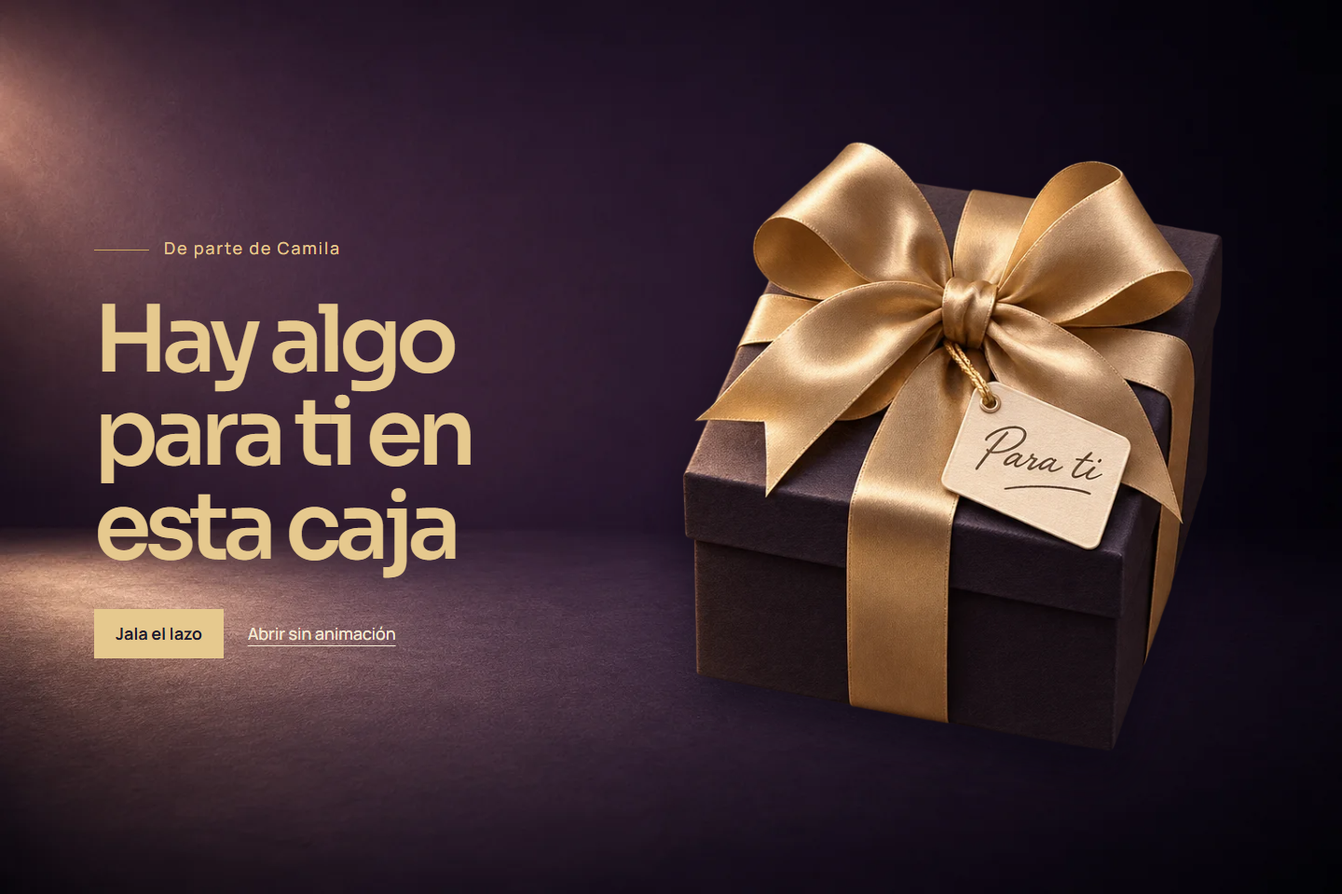
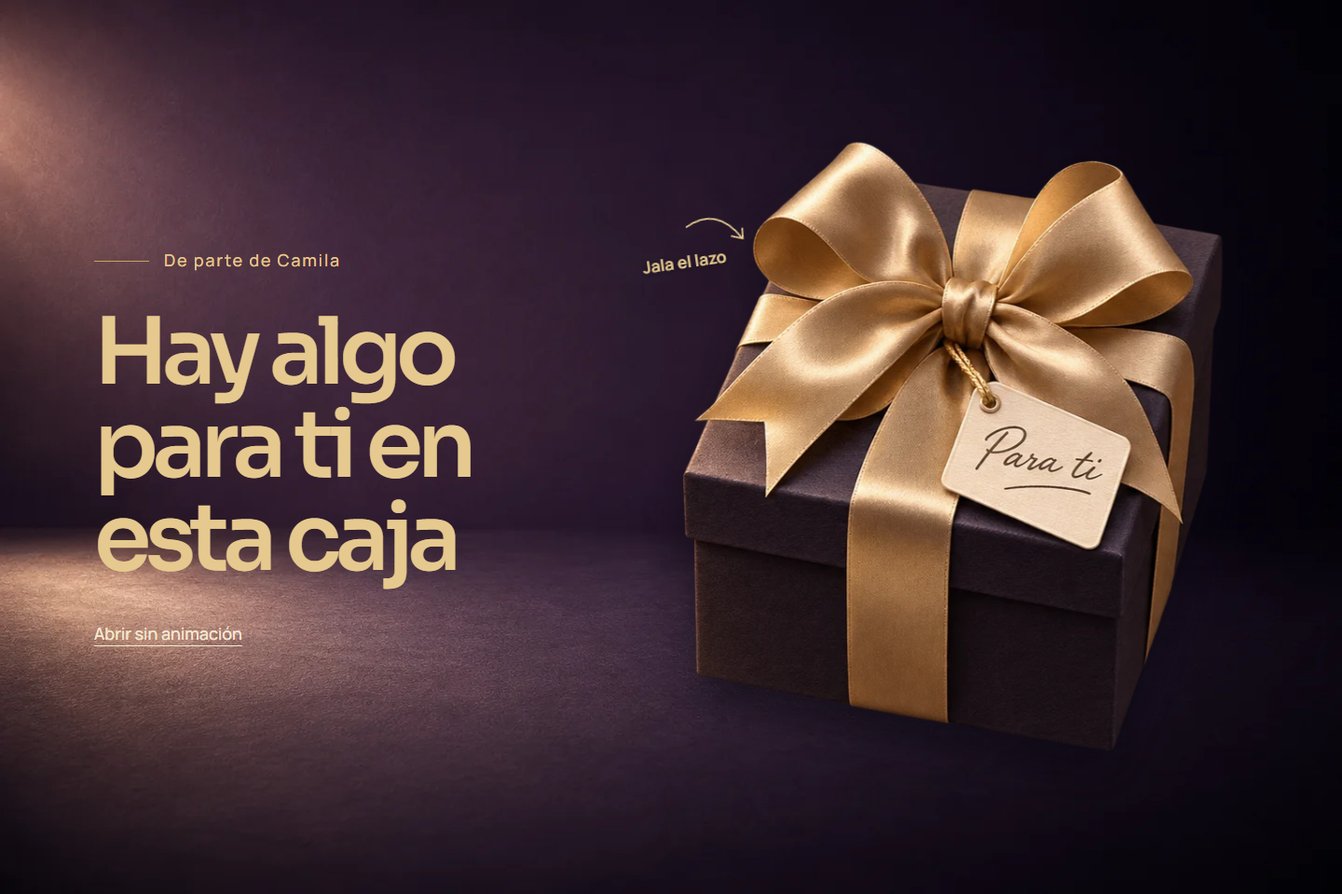
Recompone el interior sobre la mesa y convierte el moño en el control de portada

diff --git a/documentacion/caja-de-regalo/boceto/interior.html b/documentacion/caja-de-regalo/boceto/interior.html
@@ -1,12 +1,25 @@
 <!doctype html>
-<html lang="es"><head><meta charset="utf-8"><meta name="viewport" content="width=device-width, initial-scale=1"><title>Dentro de la caja · Camila 30</title><link rel="stylesheet" href="boceto.css"></head>
-<body><nav aria-label="Dentro de la caja"><a href="#cuando">Fecha</a><a href="#camila">Fotos</a><a href="#saber">Detalles</a><a href="#confirmacion">Mi lugar</a></nav>
-<main class="inside"><section id="cuando" class="date spread"><div><h1>Marca el 24 con dorado</h1><p>Faltan … para el brindis</p></div><div class="stationery"><div class="tag"><picture class=""><source media="(max-width: 680px)" srcset="../../../public/artwork/birthday-caja/etiqueta-350.webp"><img src="../../../public/artwork/birthday-caja/etiqueta-620.webp" alt=""></picture><p>Sábado 24 de julio · 19:00 · Terraza Aurora</p></div><div class="links"><a href="../../../public/invitaciones/camila-30/fecha.ics" download>Guárdalo en tu calendario</a><span role="link" aria-disabled="true">La ubicación llega pronto</span></div></div></section>
-<section id="camila"><header><h2>Treinta años no caben en una caja</h2><p>Pero lo intentamos</p></header><div class="album"><figure><picture class="frame"><source media="(max-width: 680px)" srcset="../../../public/artwork/birthday-caja/marco-260.webp"><img src="../../../public/artwork/birthday-caja/marco-514.webp" alt=""></picture><img class="photo" src="../../../public/artwork/birthday-camila-fotos/5-600.webp" srcset="../../../public/artwork/birthday-camila-fotos/5-320.webp 320w, ../../../public/artwork/birthday-camila-fotos/5-600.webp 600w" sizes="(max-width:680px) 235px, 290px" alt=""><figcaption>Los 5 · Con harina hasta en la nariz</figcaption><picture class="tape"><source media="(max-width: 680px)" srcset="../../../public/artwork/birthday-caja/cinta-100.webp"><img src="../../../public/artwork/birthday-caja/cinta-220.webp" alt=""></picture></figure>
+<html lang="es"><head><meta charset="utf-8"><meta name="viewport" content="width=device-width, initial-scale=1"><title>Dentro de la caja · Camila 30</title><link rel="stylesheet" href="boceto.css"><link rel="stylesheet" href="mesa.css"></head>
+
+<body class="table"><nav aria-label="Dentro de la caja"><a href="#cuando">Fecha</a><a href="#camila">Fotos</a><a href="#saber">Detalles</a><a href="#confirmacion">Mi lugar</a></nav>
+<main class="objects">
+<div class="thread" aria-hidden="true"><picture class=""><source media="(max-width:680px)" srcset="../../../public/artwork/birthday-caja/liston-390.webp"><img src="../../../public/artwork/birthday-caja/liston-900.webp" alt=""></picture><picture class=""><source media="(max-width:680px)" srcset="../../../public/artwork/birthday-caja/liston-390.webp"><img src="../../../public/artwork/birthday-caja/liston-900.webp" alt=""></picture><picture class=""><source media="(max-width:680px)" srcset="../../../public/artwork/birthday-caja/liston-390.webp"><img src="../../../public/artwork/birthday-caja/liston-900.webp" alt=""></picture></div>
+<section id="cuando">
+  <picture class="box"><source media="(max-width:680px)" srcset="../../../public/artwork/birthday-caja/abierta-390.webp"><img src="../../../public/artwork/birthday-caja/abierta-830.webp" alt="Caja abierta con el listón de satén extendido"></picture>
+  <h1>Marca el 24 con dorado</h1>
+  <div class="tag"><picture class=""><source media="(max-width:680px)" srcset="../../../public/artwork/birthday-caja/etiqueta-350.webp"><img src="../../../public/artwork/birthday-caja/etiqueta-620.webp" alt=""></picture><p>Sábado 24 de julio<br>19:00 · Terraza Aurora</p></div>
+  <p class="count">Faltan <strong>263</strong> días para el brindis</p>
+  <div class="links"><a href="../../../public/invitaciones/camila-30/fecha.ics" download>Guárdalo en tu calendario</a><span role="link" aria-disabled="true">La ubicación llega pronto</span></div>
+</section>
+<section id="camila"><header><h2>Treinta años no caben en una caja</h2><p>Pero lo intentamos</p></header>
+<div class="album"><figure><picture class="frame"><source media="(max-width: 680px)" srcset="../../../public/artwork/birthday-caja/marco-260.webp"><img src="../../../public/artwork/birthday-caja/marco-514.webp" alt=""></picture><img class="photo" src="../../../public/artwork/birthday-camila-fotos/5-600.webp" srcset="../../../public/artwork/birthday-camila-fotos/5-320.webp 320w, ../../../public/artwork/birthday-camila-fotos/5-600.webp 600w" sizes="(max-width:680px) 235px, 290px" alt=""><figcaption>Los 5 · Con harina hasta en la nariz</figcaption><picture class="tape"><source media="(max-width: 680px)" srcset="../../../public/artwork/birthday-caja/cinta-100.webp"><img src="../../../public/artwork/birthday-caja/cinta-220.webp" alt=""></picture></figure>
 <figure><picture class="frame"><source media="(max-width: 680px)" srcset="../../../public/artwork/birthday-caja/marco-260.webp"><img src="../../../public/artwork/birthday-caja/marco-514.webp" alt=""></picture><img class="photo" src="../../../public/artwork/birthday-camila-fotos/15-600.webp" srcset="../../../public/artwork/birthday-camila-fotos/15-320.webp 320w, ../../../public/artwork/birthday-camila-fotos/15-600.webp 600w" sizes="(max-width:680px) 235px, 290px" alt=""><figcaption>Los 15 · Me cambié los tacones por tenis</figcaption><picture class="tape"><source media="(max-width: 680px)" srcset="../../../public/artwork/birthday-caja/cinta-100.webp"><img src="../../../public/artwork/birthday-caja/cinta-220.webp" alt=""></picture></figure>
 <figure><picture class="frame"><source media="(max-width: 680px)" srcset="../../../public/artwork/birthday-caja/marco-260.webp"><img src="../../../public/artwork/birthday-caja/marco-514.webp" alt=""></picture><img class="photo" src="../../../public/artwork/birthday-camila-fotos/18-600.webp" srcset="../../../public/artwork/birthday-camila-fotos/18-320.webp 320w, ../../../public/artwork/birthday-camila-fotos/18-600.webp 600w" sizes="(max-width:680px) 235px, 290px" alt=""><figcaption>Los 18 · El diploma casi sale volando</figcaption><picture class="tape"><source media="(max-width: 680px)" srcset="../../../public/artwork/birthday-caja/cinta-100.webp"><img src="../../../public/artwork/birthday-caja/cinta-220.webp" alt=""></picture></figure>
 <figure><picture class="frame"><source media="(max-width: 680px)" srcset="../../../public/artwork/birthday-caja/marco-260.webp"><img src="../../../public/artwork/birthday-caja/marco-514.webp" alt=""></picture><img class="photo" src="../../../public/artwork/birthday-camila-fotos/25-600.webp" srcset="../../../public/artwork/birthday-camila-fotos/25-320.webp 320w, ../../../public/artwork/birthday-camila-fotos/25-600.webp 600w" sizes="(max-width:680px) 235px, 290px" alt=""><figcaption>Los 25 · Mi primera mudanza, planta incluida</figcaption><picture class="tape"><source media="(max-width: 680px)" srcset="../../../public/artwork/birthday-caja/cinta-100.webp"><img src="../../../public/artwork/birthday-caja/cinta-220.webp" alt=""></picture></figure>
 <figure><picture class="frame"><source media="(max-width: 680px)" srcset="../../../public/artwork/birthday-caja/marco-260.webp"><img src="../../../public/artwork/birthday-caja/marco-514.webp" alt=""></picture><img class="photo" src="../../../public/artwork/birthday-camila-fotos/29-600.webp" srcset="../../../public/artwork/birthday-camila-fotos/29-320.webp 320w, ../../../public/artwork/birthday-camila-fotos/29-600.webp 600w" sizes="(max-width:680px) 235px, 290px" alt=""><figcaption>Los 29 · Dije que era una caminata corta</figcaption><picture class="tape"><source media="(max-width: 680px)" srcset="../../../public/artwork/birthday-caja/cinta-100.webp"><img src="../../../public/artwork/birthday-caja/cinta-220.webp" alt=""></picture></figure>
-<figure><picture class="frame"><source media="(max-width: 680px)" srcset="../../../public/artwork/birthday-caja/marco-260.webp"><img src="../../../public/artwork/birthday-caja/marco-514.webp" alt=""></picture><img class="photo" src="../../../public/artwork/birthday-camila-fotos/30-600.webp" srcset="../../../public/artwork/birthday-camila-fotos/30-320.webp 320w, ../../../public/artwork/birthday-camila-fotos/30-600.webp 600w" sizes="(max-width:680px) 235px, 290px" alt=""><figcaption>Hoy · Mi pista sigue siendo la cocina</figcaption><picture class="tape"><source media="(max-width: 680px)" srcset="../../../public/artwork/birthday-caja/cinta-100.webp"><img src="../../../public/artwork/birthday-caja/cinta-220.webp" alt=""></picture></figure></div></section>
-<section id="saber" aria-label="Detalles"><picture class="letter"><source media="(max-width: 680px)" srcset="../../../public/artwork/birthday-caja/nota-390.webp"><img src="../../../public/artwork/birthday-caja/nota-820.webp" alt="Ven con algo que brille. ¿Regalo? Un baile conmigo. Si insistes, habrá una cajita para sobres junto al pastel. Es noche de adultos: los peques, con los abuelos. Hay valet. Que maneje quien no brinde. — Cami"></picture></section>
-<section id="confirmacion" class="spread"><div><h2>Tu lugar en la fiesta</h2><p>¿Te veo el 24?</p></div><div><div class="ticket"><picture class=""><source media="(max-width: 680px)" srcset="../../../public/artwork/birthday-caja/pase-350.webp"><img src="../../../public/artwork/birthday-caja/pase-610.webp" alt=""></picture><p>Admite a: tu nombre</p></div><div class="answers"><details name="respuesta"><summary>Ahí estaré</summary><p>Listo. Te guardo un lugar en la pista y una copa de champaña</p></details><details name="respuesta"><summary>Esta vez no puedo</summary><p>Te voy a extrañar. Me debes un brindis</p></details></div><small>Es una muestra: no se ha enviado ni guardado ninguna respuesta</small></div></section></main></body></html>
+<figure><picture class="frame"><source media="(max-width: 680px)" srcset="../../../public/artwork/birthday-caja/marco-260.webp"><img src="../../../public/artwork/birthday-caja/marco-514.webp" alt=""></picture><img class="photo" src="../../../public/artwork/birthday-camila-fotos/30-600.webp" srcset="../../../public/artwork/birthday-camila-fotos/30-320.webp 320w, ../../../public/artwork/birthday-camila-fotos/30-600.webp 600w" sizes="(max-width:680px) 235px, 290px" alt=""><figcaption>Hoy · Mi pista sigue siendo la cocina</figcaption><picture class="tape"><source media="(max-width: 680px)" srcset="../../../public/artwork/birthday-caja/cinta-100.webp"><img src="../../../public/artwork/birthday-caja/cinta-220.webp" alt=""></picture></figure><button class="next" type="button" aria-label="Ver la siguiente polaroid"></button></div>
+</section>
+<section id="saber" aria-label="Detalles"><picture class="letter"><source media="(max-width: 680px)" srcset="../../../public/artwork/birthday-caja/nota-390.webp"><img src="../../../public/artwork/birthday-caja/nota-820.webp" alt="Ven con algo que brille. ¿Regalo? Un baile conmigo. Si insistes, habrá una cajita para sobres junto al pastel. Es noche de adultos: los peques, con los abuelos. Hay valet. Que maneje quien no brinde. — Cami"></picture><i class="paperclip" aria-hidden="true"></i></section>
+<section id="confirmacion"><h2>Tu lugar en la fiesta</h2><div class="admission"><picture class=""><source media="(max-width:680px)" srcset="../../../public/artwork/birthday-caja/boleto-480.webp"><img src="../../../public/artwork/birthday-caja/boleto-1000.webp" alt=""></picture><div class="ticket-type"><b>Camila 30</b><span>Sábado 24 de julio · 19:00 · Terraza Aurora</span><strong>Admite a: tu nombre</strong></div><b class="stub">30</b></div><p class="question">¿Te veo el 24?</p><div class="choices"><details name="respuesta"><summary><picture class=""><source media="(max-width:680px)" srcset="../../../public/artwork/birthday-caja/sello-oro-120.webp"><img src="../../../public/artwork/birthday-caja/sello-oro-240.webp" alt=""></picture><span>Ahí estaré</span></summary><p>Listo. Te guardo un lugar en la pista y una copa de champaña</p></details>
+<details name="respuesta"><summary><picture class=""><source media="(max-width:680px)" srcset="../../../public/artwork/birthday-caja/sello-ciruela-120.webp"><img src="../../../public/artwork/birthday-caja/sello-ciruela-240.webp" alt=""></picture><span>Esta vez no puedo</span></summary><p>Te voy a extrañar. Me debes un brindis</p></details></div><small>Es una muestra: no se ha enviado ni guardado ninguna respuesta</small></section>
+</main><script src="monton.js"></script></body></html>

diff --git a/documentacion/caja-de-regalo/boceto/mesa.css b/documentacion/caja-de-regalo/boceto/mesa.css
@@ -1,0 +1,100 @@
+.table {
+  background: linear-gradient(90deg,#2017249e,#18122224 50%,#140f1e60),
+    url("../../../public/artwork/birthday-caja/mesa-1440.webp") center top / 100% auto repeat-y;
+}
+.table nav {
+  width: fit-content; max-width: 95%; margin: 1.5rem auto 0; padding: .6rem 3rem;
+  display: flex; gap: clamp(1rem,4vw,3rem); align-items: center;
+  background: linear-gradient(4deg,#a07d43,#e6c98e 48%,#c5a269 75%,#eed9a9);
+  clip-path: polygon(0 0,100% 0,98% 48%,100% 100%,0 100%,2% 50%);
+  color: #271e2c; font-size: .95rem; font-weight: 700;
+}
+.objects { width: min(90%,1230px); margin: auto; position: relative; isolation: isolate; }
+.objects section { position: relative; }
+.objects h1, .objects h2, .specimen h1 { font-size: clamp(2.5rem,5.8vw,6rem); }
+.thread { position: absolute; z-index: -1; inset: 7% 4% 6% 20%; display: grid; grid-template-rows: repeat(3,1fr); pointer-events: none; }
+.thread picture, .thread img { width: 100%; height: 100%; min-height: 0; }
+.thread picture:nth-child(2) { transform: scaleX(-1); }
+#cuando { padding: 7% 0 5%; }
+#cuando h1 { width: 57%; }
+.box { position: absolute; top: 4%; right: 1%; width: 37%; transform: rotate(5deg); filter: drop-shadow(.4rem 1.2rem .8rem #09061199); }
+.tag { width: min(49%,595px); position: relative; margin: 1.8rem 0 0 3%; transform: rotate(-5deg); filter: drop-shadow(2px 10px 6px #100b17aa); }
+.tag p { position: absolute; inset: 10% 2% 8% 31%; margin: 0; align-content: center; font: 600 clamp(.9rem,1.85vw,1.8rem)/1.35 Sora,sans-serif; color: var(--ink); letter-spacing: -.045em; white-space: nowrap; }
+.count { display: flex; gap: .65rem; align-items: baseline; margin: 1rem 0 .5rem; }
+.count strong { color: var(--gold); font: 650 clamp(3.1rem,6vw,6rem)/1 Sora,sans-serif; letter-spacing: -.09em; text-shadow: 0 2px #4d3718; }
+.links { display: flex; flex-wrap: wrap; gap: .45rem 1.2rem; font-size: .92rem; }
+.links > * { text-decoration: underline var(--foil); text-underline-offset: .35em; }
+#camila { padding: 3rem 0; }
+#camila header { width: min(720px,85%); }
+#camila header p { margin: .6rem 0; }
+.album { position: relative; height: min(72vw,820px); margin-top: 1.4rem; }
+.album figure { margin: 0; position: absolute; width: 27%; left: var(--x); top: var(--y); transform: rotate(var(--angle)); filter: drop-shadow(3px 10px 8px #0e0817c4); }
+figure:nth-child(1) { --x:1%; --y:4%; --angle:-7deg; }
+figure:nth-child(2) { --x:25%; --y:18%; --angle:5deg; }
+figure:nth-child(3) { --x:54%; --y:1%; --angle:-3deg; }
+figure:nth-child(4) { --x:5%; --y:51%; --angle:7deg; }
+figure:nth-child(5) { --x:36%; --y:59%; --angle:-8deg; }
+figure:nth-child(6) { --x:61%; --y:46%; --angle:5deg; }
+.photo { position: absolute; inset: 10% 11% auto; width: 78%; height: 64%; object-fit: cover; }
+figcaption { position: absolute; inset: 76% 9% 4%; align-content: center; font-size: clamp(.82rem,1.22vw,1.14rem); line-height: 1.22; color: var(--ink); }
+.tape { position: absolute; width: 29%; left: 36%; top: -1.5%; opacity: .91; transform: rotate(7deg); }
+.next { display: none; }
+#saber { width: min(45%,490px); margin: 3rem auto 5rem 38%; }
+.letter { transform: rotate(-4deg); filter: drop-shadow(6px 17px 10px #100917aa); }
+.paperclip { position: absolute; width: 1.15rem; height: 3.5rem; right: 19%; top: -1.2rem; border: 3px solid #c9a45c; border-radius: 1rem; transform: rotate(11deg); box-shadow: inset 1px 0 #fff2cc,1px 2px 2px #332534; }
+#confirmacion { max-width: 780px; padding: 2rem 0 5rem; margin: auto; }
+.admission { margin: 2rem 0; position: relative; transform: rotate(-2deg); filter: drop-shadow(3px 10px 7px #100b17aa); }
+.ticket-type { position: absolute; inset: 14% 28% 14% 10%; display: flex; justify-content: center; flex-direction: column; gap: .45em; }
+.ticket-type b,.stub { font: 650 clamp(2rem,5vw,5rem)/1 Sora,sans-serif; letter-spacing: -.07em; color: var(--gold); }
+.ticket-type span,.ticket-type strong { font-size: clamp(.82rem,1.45vw,1.35rem); line-height: 1.24; }
+.stub { position: absolute; inset: 0 0 0 76%; display: grid; place-items: center; font-size: clamp(2rem,4.1vw,4rem); text-shadow: 1px 2px #674c29; }
+.question { font: 600 1.65rem Sora,sans-serif; }
+.choices { position: relative; display: flex; gap: 1.1rem; margin-bottom: 1rem; }
+.choices summary { width: 7rem; position: relative; list-style: none; cursor: pointer; }
+.choices summary::-webkit-details-marker { display: none; }
+.choices summary span { position: absolute; inset: 14% 18%; display: grid; align-content: center; text-align: center; font-weight: 750; font-size: 1rem; line-height: 1.15; }
+.choices details:first-child summary span { color: #291b21; }
+.choices details { width: 7rem; }
+.choices details p { position: absolute; left: 0; bottom: 0; width: min(100%,42rem); margin: 0; }
+.choices:has([open]) { padding-bottom: 4rem; }
+.choices [open] summary { transform: rotate(-7deg); filter: drop-shadow(0 0 4px #edce85); }
+.table small { display: block; max-width: 39rem; }
+.specimen { max-width: 850px; margin: auto; padding: 8vh 5vw; }
+@media(max-width:680px) {
+  .table { background-image: linear-gradient(90deg,#201724a6,#18122235 55%,#140f1e66),url("../../../public/artwork/birthday-caja/mesa-600.webp"); background-size: auto, max(100%,690px) auto; }
+  .table nav { padding: .5rem 1.4rem; margin-top: .9rem; gap: 1.15rem; }
+  .objects { width: 89%; }
+  #cuando { padding: 2.2rem 0 1.8rem; }
+  #cuando h1 { width: 57%; font-size: clamp(2rem,8vw,3rem); min-height: 8.4rem; align-content: center; }
+  .box { width: 47%; top: 1.4rem; right: 0; }
+  .tag { width: 95%; margin: .6rem 0 0; }
+  .tag p { font-size: clamp(.82rem,4vw,1.22rem); }
+  .count { font-size: .94rem; gap: .4rem; }
+  .links { font-size: .84rem; gap: .35rem .8rem; }
+  #camila { padding: 2rem 0; }
+  #camila header { width: 100%; }
+  .album { height: min(90vw,385px); margin-top: 2.4rem; }
+  .album figure {
+    width: 76%; left: 11%; top: 4%; z-index: calc(6 - var(--depth));
+    transform: translate(calc(var(--depth) * -1px),calc(var(--depth) * -2px)) rotate(var(--angle));
+  }
+  .next { display: block; position: absolute; inset: 0; z-index: 7; background: transparent; border: 0; cursor: pointer; touch-action: pan-y; }
+  figcaption { font-size: 1rem; }
+  #saber { width: 91%; margin: 1.6rem auto 3.3rem; }
+  #confirmacion { padding: 1rem 0 2.5rem; }
+  .admission { margin: 1.4rem 0; }
+  .ticket-type { gap: .22em; inset: 12% 27% 12% 10%; }
+  .ticket-type b { font-size: clamp(1.45rem,6.2vw,2rem); }
+  .ticket-type span,.ticket-type strong { font-size: clamp(.7rem,3.15vw,.95rem); }
+  .choices:has([open]) { padding-bottom: 4.8rem; }
+  .specimen { padding-inline: 5vw; }
+}
+/* El satén queda en segundo plano en las zonas de lectura. */
+.thread { filter: brightness(.79); }
+.count, .links, .objects h2, .question, .choices details p {
+  text-shadow: 0 2px 4px #1a1223, 0 0 11px #1a1223;
+}
+@media(max-width:680px) {
+  .thread { left: 26%; right: 0; }
+  .question { margin-bottom: .6rem; }
+}

diff --git a/documentacion/caja-de-regalo/boceto/boceto.css b/documentacion/caja-de-regalo/boceto/boceto.css
@@ -55,47 +55,12 @@ h1, h2 {
   filter: drop-shadow(0 1.7rem 1.4rem #09061199);
 }
 .actions { align-self: start; display: flex; gap: 1.6rem; align-items: center; margin-top: 2.3rem; }
-.primary, summary {
-  display: inline-block; padding: .8rem 1.45rem; color: var(--ink);
-  background: var(--gold); font-weight: 700; text-decoration: none;
-}
 .opening .headline { align-self: center; }
 .opening h1 { max-width: 8em; }
 .scene { position: relative; aspect-ratio: .87; max-width: 64vh; width: 100%; justify-self: center; }
 .open-box { position: absolute; width: 80%; bottom: 0; right: 0; }
 .balloons { position: absolute; width: 59%; top: 0; left: 5%; transform: rotate(-7deg); }
 .confetti { position: absolute; inset: 0; width: 100%; }
-nav { display: flex; justify-content: center; gap: clamp(1.2rem, 4vw, 4rem); padding: 2rem 1rem; }
-nav a { color: var(--gold); }
-.inside { max-width: 1240px; margin: auto; padding: 0 6vw; }
-.inside h1, .inside h2, .personal h1 { font-size: clamp(2.7rem, 5.2vw, 5.6rem); }
-.inside section { padding-block: clamp(4.5rem, 9vw, 10rem); }
-.spread { display: grid; grid-template-columns: .94fr 1.06fr; align-items: center; gap: 3vw; }
-.tag, .ticket { position: relative; transform: rotate(-4deg); filter: drop-shadow(.2rem 1rem .65rem #08061077); }
-.tag p, .ticket p {
-  position: absolute; display: grid; align-content: center; inset: 8% 6% 8% 33%;
-  margin: 0; color: var(--ink); font: 600 clamp(1.1rem, 2vw, 2rem)/1.32 Sora, sans-serif;
-  letter-spacing: -.045em;
-}
-.links { margin-top: 2rem; display: flex; flex-wrap: wrap; gap: .45rem 1.25rem; justify-content: center; font-size: .93rem; text-decoration: underline; text-underline-offset: .3em; }
-#camila header { max-width: 47rem; margin-bottom: 3rem; }
-.album { display: grid; grid-template-columns: repeat(3, 1fr); gap: 3.2rem 1.6rem; }
-figure { margin: 0; position: relative; transform: rotate(-3deg); filter: drop-shadow(4px 12px 9px #08061399); }
-figure:nth-child(even) { transform: rotate(3deg) translateY(.8rem); }
-.photo { position: absolute; inset: 10% 11% auto; width: 78%; height: 64%; object-fit: cover; }
-figcaption { position: absolute; inset: 76% 9% 5%; display: grid; align-content: center; font-size: clamp(.91rem, 1.3vw, 1.2rem); line-height: 1.22; color: var(--ink); }
-.tape { position: absolute; width: 29%; left: 36%; top: -1.5%; opacity: .89; transform: rotate(7deg); }
-#saber { display: grid; justify-items: center; }
-.letter { max-width: 530px; transform: rotate(-2deg); filter: drop-shadow(8px 18px 14px #08061399); }
-.ticket { transform: rotate(2deg); }
-.ticket p { inset: 10% 27% 12% 10%; }
-.answers { display: flex; flex-wrap: wrap; align-items: start; gap: .8rem; margin: 2rem 0 1rem; }
-summary { font-size: 1rem; cursor: pointer; list-style: none; }
-summary::-webkit-details-marker { display: none; }
-details:nth-child(2) summary { background: var(--plum); color: var(--ivory); }
-small { opacity: .85; }
-.personal { padding: 10vh 6vw; max-width: 720px; margin: auto; }
-.personal h1 { margin-bottom: 4rem; }
 @media (max-width: 680px) {
   body { background-image: url("../../../public/artwork/birthday-caja/fondo-600.webp"); }
   .poster { grid-template-columns: 1fr; padding: 2.2rem 6vw; gap: 1.1rem; }
@@ -104,34 +69,13 @@ small { opacity: .85; }
   .gift, .scene { grid-column: 1; grid-row: 2; width: min(100%, 42svh); }
   .actions { flex-wrap: wrap; margin-top: .6rem; gap: 1.2rem; font-size: 1rem; justify-content: center; }
   .opening .scene { width: min(100%, 52svh); }
-  .inside { padding: 0 6vw; }
-  .spread { display: block; }
-  .inside section { padding-block: 3.6rem; }
-  .stationery, .ticket { margin-top: 2.7rem; }
-  .album { grid-template-columns: 1fr; gap: 2.1rem; padding-inline: 2%; }
-  figure { width: min(82%, 310px); }
-  figure:nth-child(even) { justify-self: end; }
-  figcaption { font-size: 1rem; }
-  nav { padding-block: 1.4rem; font-size: 1rem; }
-  .letter { transform: rotate(-1deg); }
 }
 @media (prefers-reduced-motion: reduce) {
   body { background-attachment: scroll; background-size: auto 100vh; background-repeat: repeat-y; }
 }
-/* La luz se desvanece sobre la mesa antes de llegar al álbum. */
-body:has(.inside) {
-  background: var(--ink);
-  position: relative;
-  isolation: isolate;
-}
-body:has(.inside)::before {
-  content: ""; position: absolute; z-index: -1; inset: 0 0 auto; height: 90svh;
-  background: linear-gradient(to bottom, transparent 30%, var(--ink)),
-              url("../../../public/artwork/birthday-caja/fondo-1440.webp") center / cover;
-}
-@media (max-width: 680px) {
-  body:has(.inside)::before {
-    background-image: linear-gradient(to bottom, transparent 30%, var(--ink)),
-                      url("../../../public/artwork/birthday-caja/fondo-600.webp");
-  }
-}
+
+.pull { position: relative; display: block; padding: 0; border: 0; background: none; cursor: pointer; color: var(--gold); width: 100%; }
+.hint { position: absolute; left: -5%; top: 15%; transform: rotate(-8deg); text-shadow: 0 1px 5px #120e1b; font: 650 1.1rem Manrope,sans-serif; }
+.hint svg { display: block; width: 4em; margin-left: 55%; fill: none; stroke: currentColor; stroke-width: 2; transform: scaleY(-1); }
+@media(max-width:680px){.hint{left:-2%;top:0;font-size:1rem}}
+.hint svg { filter: drop-shadow(0 1px 1px #1d1a2e); }

diff --git a/documentacion/caja-de-regalo/boceto/index.html b/documentacion/caja-de-regalo/boceto/index.html
@@ -2,6 +2,6 @@
 <html lang="es"><head><meta charset="utf-8"><meta name="viewport" content="width=device-width, initial-scale=1"><title>La caja de regalo · Camila 30</title><link rel="stylesheet" href="boceto.css"></head>
 <body><main class="poster">
 <div class="headline"><p class="sender">De parte de Camila</p><h1>Hay algo para ti en esta caja</h1></div>
-<picture class="gift"><source media="(max-width: 680px)" srcset="../../../public/artwork/birthday-caja/cerrada-360.webp"><img src="../../../public/artwork/birthday-caja/cerrada-660.webp" alt="Caja de papel medianoche con lazo de satén y etiqueta «Para ti»"></picture>
-<div class="actions"><a class="primary" href="apertura.html">Jala el lazo</a><a href="interior.html">Abrir sin animación</a></div>
+<form class="gift" action="apertura.html"><button class="pull" type="submit" aria-label="Jala el lazo"><picture ><source media="(max-width: 680px)" srcset="../../../public/artwork/birthday-caja/cerrada-360.webp"><img src="../../../public/artwork/birthday-caja/cerrada-660.webp" alt="Caja de papel medianoche con lazo de satén y etiqueta «Para ti»"></picture><span class="hint"><svg viewBox="0 0 80 36" aria-hidden="true"><path d="M2 27 Q42 48 68 5 m-13 4 14-5 1 13"/></svg>Jala el lazo</span></button></form>
+<div class="actions"><a href="interior.html">Abrir sin animación</a></div>
 </main></body></html>

diff --git a/documentacion/caja-de-regalo/boceto/monton.js b/documentacion/caja-de-regalo/boceto/monton.js
@@ -1,0 +1,39 @@
+// Interacción local del montón de muestra. El recorrido empieza por los cinco años.
+const pile = document.querySelector('.album');
+const photos = [...pile.querySelectorAll('figure')];
+const next = pile.querySelector('.next');
+const narrow = matchMedia('(max-width: 680px)');
+let front = 0;
+
+function showPhoto() {
+  photos.forEach((photo, index) => {
+    const depth = (index - front + photos.length) % photos.length;
+    photo.style.setProperty('--depth', depth);
+    photo.setAttribute('aria-hidden', String(narrow.matches && depth !== 0));
+  });
+  next.setAttribute('aria-label', photos[front].querySelector('figcaption').textContent + '. Ver la siguiente polaroid');
+}
+function turn(step) {
+  front = (front + step + photos.length) % photos.length;
+  showPhoto();
+}
+let touchStart;
+let swiped = false;
+next.addEventListener('pointerdown', event => {
+  touchStart = event.clientX;
+  swiped = false;
+  next.setPointerCapture(event.pointerId);
+});
+next.addEventListener('pointerup', event => {
+  const distance = event.clientX - touchStart;
+  if (Math.abs(distance) > 28) {
+    swiped = true;
+    turn(distance < 0 ? 1 : -1);
+  }
+});
+next.addEventListener('click', event => {
+  if (!swiped || event.detail === 0) turn(1);
+  swiped = false;
+});
+narrow.addEventListener('change', showPhoto);
+showPhoto();

diff --git a/documentacion/caja-de-regalo/boceto/pase-personal.html b/documentacion/caja-de-regalo/boceto/pase-personal.html
@@ -1,3 +1,3 @@
 <!doctype html>
-<html lang="es"><head><meta charset="utf-8"><meta name="viewport" content="width=device-width, initial-scale=1"><title>Tu lugar en la fiesta · Camila 30</title><link rel="stylesheet" href="boceto.css"></head>
-<body><main class="personal"><h1>Tu lugar en la fiesta</h1><div class="ticket"><picture class=""><source media="(max-width: 680px)" srcset="../../../public/artwork/birthday-caja/pase-350.webp"><img src="../../../public/artwork/birthday-caja/pase-610.webp" alt=""></picture><p>Admite a [nombre] · [n] lugares</p></div></main></body></html>
+<html lang="es"><head><meta charset="utf-8"><meta name="viewport" content="width=device-width, initial-scale=1"><title>Dentro de la caja · Camila 30</title><link rel="stylesheet" href="boceto.css"><link rel="stylesheet" href="mesa.css"></head>
+<body class="table"><main class="specimen"><h1>Tu lugar en la fiesta</h1><div class="admission"><picture class=""><source media="(max-width:680px)" srcset="../../../public/artwork/birthday-caja/boleto-480.webp"><img src="../../../public/artwork/birthday-caja/boleto-1000.webp" alt=""></picture><div class="ticket-type"><b>Camila 30</b><span>Sábado 24 de julio · 19:00 · Terraza Aurora</span><strong>Admite a Renata Sol · 2 lugares</strong></div><b class="stub">30</b></div></main></body></html>

diff --git a/documentacion/caja-de-regalo/REVISION.md b/documentacion/caja-de-regalo/REVISION.md
@@ -1,37 +1,31 @@
-# La caja de regalo
+# La caja de regalo · revisión del boceto
 
-[Portada](boceto/index.html) · [Apertura](boceto/apertura.html) · [Interior](boceto/interior.html) · [Variante del pase personal](boceto/pase-personal.html)
+[Portada](boceto/index.html) · [Fotograma de apertura](boceto/apertura.html) · [Interior](boceto/interior.html) · [Pase personal de Renata Sol](boceto/pase-personal.html)
 
-| Vista | Teléfono | Escritorio |
+| Vista | 390 px | 1440 px |
 | --- | --- | --- |
-| Portada | [390 px](boceto/portada-390.png) | [1440 px](boceto/portada-1440.png) |
-| Apertura | [390 px](boceto/apertura-390.png) | [1440 px](boceto/apertura-1440.png) |
-| Interior completo | [390 px](boceto/interior-390.png) | [1440 px](boceto/interior-1440.png) |
+| Portada con el moño como control | [Teléfono](boceto/portada-390.png) | [Escritorio](boceto/portada-1440.png) |
+| Apertura aprobada en fase 1 | [Teléfono](boceto/apertura-390.png) | [Escritorio](boceto/apertura-1440.png) |
+| Interior completo | [Teléfono](boceto/interior-390.png) | [Escritorio](boceto/interior-1440.png) |
 
-## Dirección y lectura
+[Comparación de tres vistas de 1440 × 960](boceto/comparacion-1440.png). De izquierda a derecha se ven el interior de la caja, la posada y la Mansión. Las tres columnas conservan su escala original.
 
-En la Mansión, romper el sello de la carta le da sentido a la entrada. En la posada, las sombras entre los pliegues de la piñata y el papel de las etiquetas sostienen la composición. Aquí el primer gesto pertenece al moño. Su etiqueta se vuelve la fecha y el talón perforado señala dónde va el nombre del invitado.
+## Estados del boceto
 
-El fotograma de apertura es un enlace al interior. «Abrir sin animación» lleva directamente allí. Los cuatro enlaces del menú aparecen dentro. Las dos respuestas se pueden desplegar con teclado para revisar su redacción. No se envía ni se guarda información. Los textos cupieron completos en ambas medidas. La nota lleva el texto en la imagen y en su alternativa HTML. El calendario usa el archivo de muestra existente y la ubicación queda pendiente.
+- [Montón inicial](boceto/monton-inicial-390.png) y [tercera foto](boceto/monton-intermedio-390.png). En teléfono se puede recorrer el montón por toque, arrastre horizontal o teclado. En escritorio los seis pies aparecen a la vez.
+- [Pase sin enlace personal](boceto/pase-sin-enlace-390.png), [pase de Renata Sol para dos lugares](boceto/pase-personal-390.png) y [sello «Ahí estaré» elegido](boceto/pase-elegido-390.png). Las respuestas son estados locales de muestra.
+- «Faltan 263 días para el brindis» usa un valor fijo de ejemplo. La fecha y la hora se imprimen en dos líneas en la etiqueta.
 
-## Arte y peso
+## Arte
 
-[Originales y prompts íntegros](../../artwork-source/birthday-caja-v1/) · [Ocho piezas en dos tamaños WebP](../../public/artwork/birthday-caja/)
+[Originales y prompts de esta revisión](../../artwork-source/birthday-caja-v1/prompts-interior.json) · [Piezas web](../../public/artwork/birthday-caja/)
 
-Pesos aproximados en kB decimales por vista, incluida su superficie. Son tamaños de archivo. El fondo se reutiliza al pasar de una vista a otra.
+El listón incluye el confeti y se reaprovecha entre secciones. El boleto se generó en blanco y el talón, el nombre y la fecha se componen en HTML. Los sellos dorado y ciruela proceden de una misma toma. Cada pieza tiene dos tamaños WebP. La textura continua de mesa sale de la parte inferior de la fotografía de superficie de la fase 1, reflejada en vertical para unir sus bordes. La nota manuscrita conserva sus imágenes y su texto alternativo.
 
-| Imágenes | Teléfono | Escritorio |
-| --- | ---: | ---: |
-| Portada, caja cerrada y superficie | 31 | 124 |
-| Apertura, caja abierta, superficie y globos existentes | 48 | 157 |
-| Interior con seis fotos, marcos, cinta, papel, pase y superficie | 205 | 470–612 |
+## Medidas y comprobaciones
 
-El intervalo del interior depende de si el navegador solicita fotos de 320 o 600 px. Las dos fuentes locales suman 61 kB y se comparten entre vistas. Los originales PNG y las capturas de revisión quedan fuera de estos cálculos.
+Revisado en Chromium con ventanas de 390 × 844 y 1440 × 960. El interior mide **2071 px** de alto en teléfono y 3537 px en escritorio. La sección completa de fotos mide **572 px** en teléfono y 1144 px en escritorio. No hubo desbordamiento horizontal en ninguna de las dos medidas. Se comprobaron la apertura con Enter, el cambio de foto por toque, arrastre y teclado y la exclusión mutua de los dos sellos.
 
 ## Apertura propuesta para la fase 2
 
 Prepararía máscaras de lazo, tapa y frente a partir de los originales aprobados. Al jalar, los dos extremos del satén perderían tensión. Después la tapa giraría hacia la derecha alrededor de su borde posterior. El frente de la caja ocultaría el nacimiento de los globos 3D existentes, que subirían con un pequeño desfase entre el 3 y el 0. Unos recortes de confeti tomarían la misma luz lateral. Probaría el gesto completo en alrededor de un segundo. Con movimiento reducido o al elegir el salto, se mostraría el interior directamente. El tamaño de las capas independientes se medirá cuando se preparen para esa animación.
-
-## Verificación
-
-Boceto estático revisado en Chromium a 390 × 844 y 1440 × 960. Se comprobó la decodificación de todas las imágenes, la carga de Sora y Manrope, la ausencia de desbordamiento horizontal y ambas respuestas de muestra. Las capturas del interior miden 4003 y 3536 px de alto, respectivamente.
